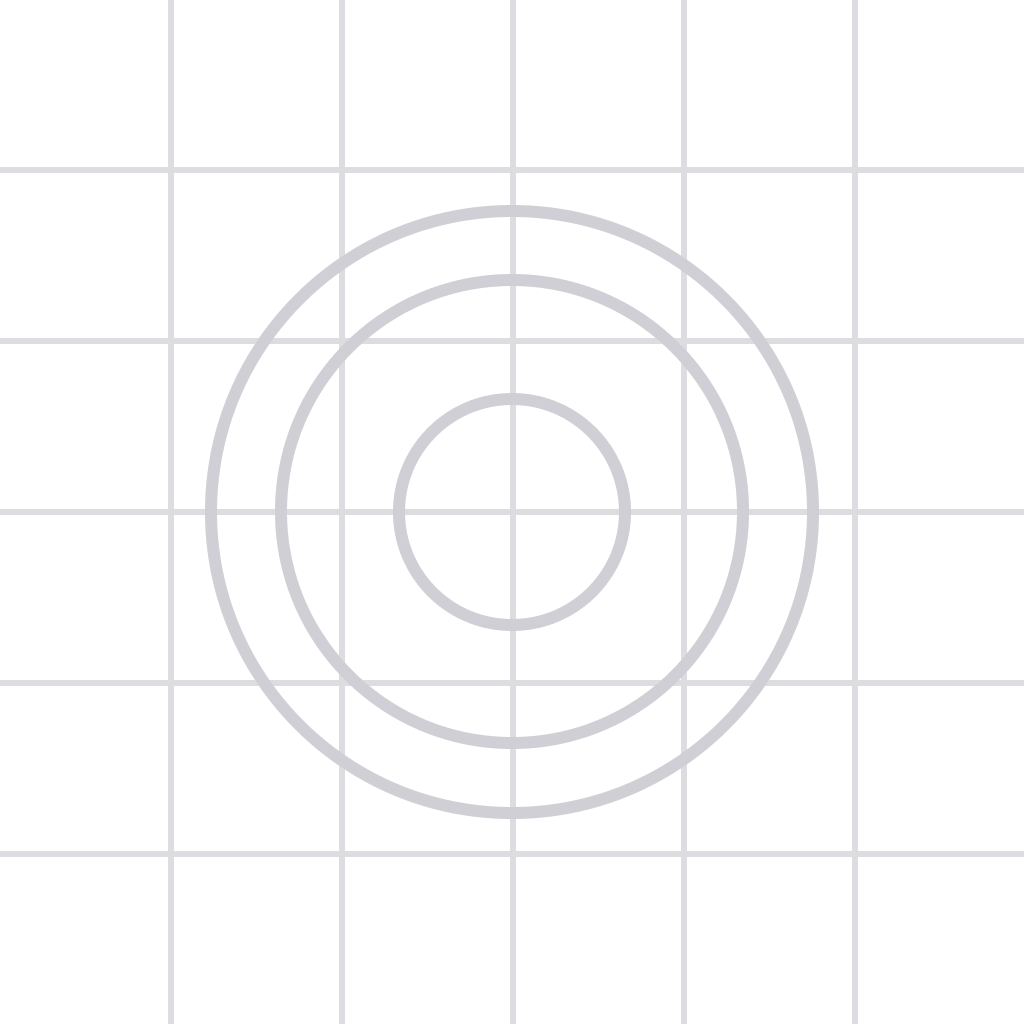
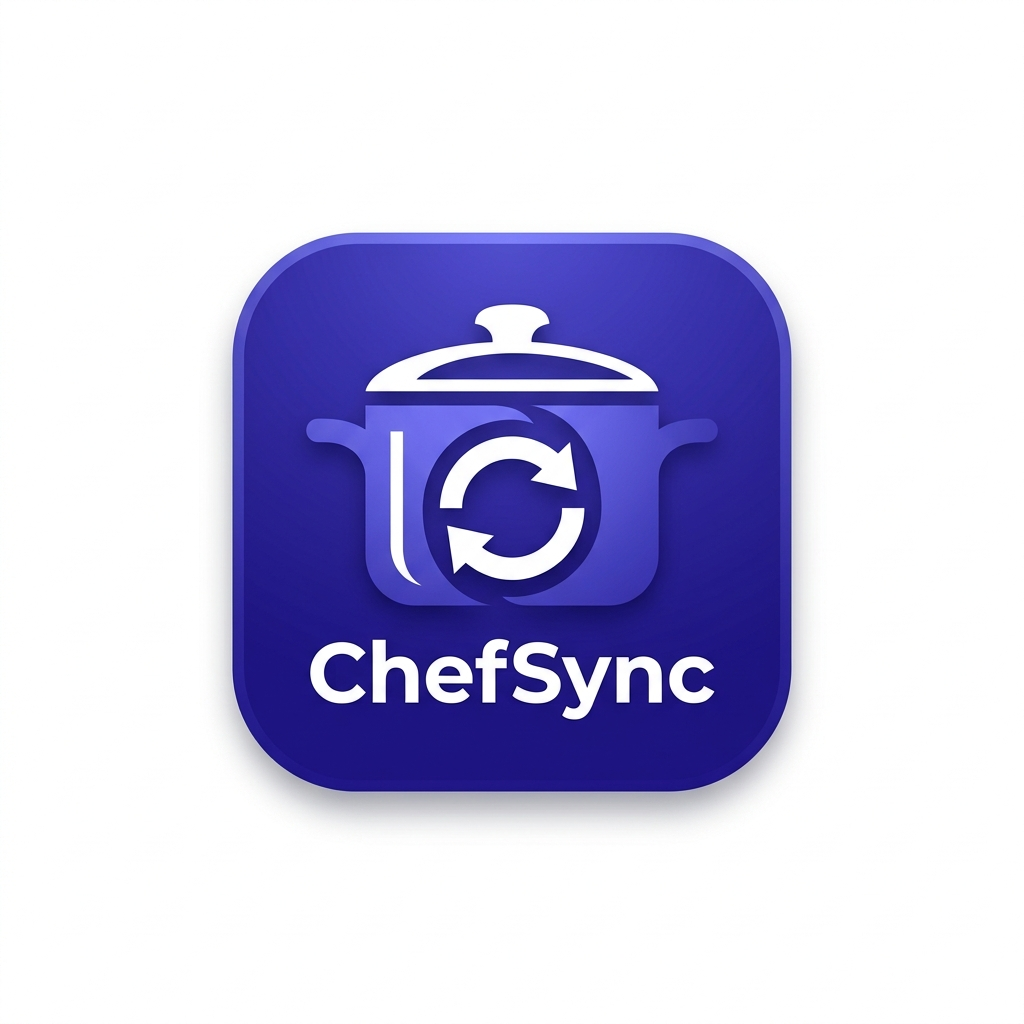
Project completed

diff --git a/frontend/smart-recipe-app/src/context/AuthContext.tsx b/frontend/smart-recipe-app/src/context/AuthContext.tsx
@@ -58,7 +58,7 @@ export const AuthProvider: React.FC<{ children: React.ReactNode }> = ({ children
         const storedToken = await AsyncStorage.getItem('userToken');
         
         if (storedToken) {
-          console.log("[BOOT] Token found. Restoring session.");
+          if (__DEV__) console.log("[BOOT] Token found. Restoring session.");
           setUserToken(storedToken);
           // Attempt to load profile, but don't block boot if it's just a network error
           try {
@@ -67,7 +67,7 @@ export const AuthProvider: React.FC<{ children: React.ReactNode }> = ({ children
             console.warn("[BOOT] Profile sync failed, but session kept.");
           }
         } else {
-          console.log("[BOOT] No token found. Routing to Auth.");
+          if (__DEV__) console.log("[BOOT] No token found. Routing to Auth.");
         }
       } catch (error) {
         console.error("[BOOT] Session restoration critical failure:", error);
@@ -98,7 +98,7 @@ export const AuthProvider: React.FC<{ children: React.ReactNode }> = ({ children
       setUserToken(access_token);
       await fetchUserProfile(access_token);
       
-      console.log("[AUTH] ChefSync login successful. Session persisted.");
+      if (__DEV__) console.log("[AUTH] ChefSync login successful. Session persisted.");
     } catch (error: any) {
       const detail = error.response?.data?.detail;
       const message = typeof detail === 'string' ? detail : 'Invalid email or password.';
@@ -115,12 +115,12 @@ export const AuthProvider: React.FC<{ children: React.ReactNode }> = ({ children
         full_name: fullName,
       });
 
-      console.log("[AUTH] Registration successful. Triggering auto-login.");
+      if (__DEV__) console.log("[AUTH] Registration successful. Triggering auto-login.");
       await login(email, password);
     } catch (error: any) {
       const detail = error.response?.data?.detail;
       const message = typeof detail === 'string' ? detail : 'Could not create account.';
-      console.error('[AUTH] Registration error:', message);
+      if (__DEV__) console.error('[AUTH] Registration error:', message);
       throw new Error(message);
     }
   };
@@ -130,7 +130,7 @@ export const AuthProvider: React.FC<{ children: React.ReactNode }> = ({ children
       await AsyncStorage.removeItem('userToken');
       setUserToken(null);
       setUser(null);
-      console.log("[AUTH] Session cleared.");
+      if (__DEV__) console.log("[AUTH] Session cleared.");
     } catch (error) {
       console.error('[AUTH] Logout failed:', error);
     }

diff --git a/frontend/smart-recipe-app/src/api/client.ts b/frontend/smart-recipe-app/src/api/client.ts
@@ -10,15 +10,8 @@ import Toast from 'react-native-toast-message';
  * We use the host debugger address to point back to your computer.
  */
 const getBaseUrl = () => {
-  const debuggerHost = Constants.expoConfig?.hostUri;
-  const localhost = debuggerHost?.split(':').shift();
-  
-  if (localhost) {
-    return `http://${localhost}:8000`;
-  }
-  
-  // Fallback for web or production
-  return 'http://localhost:8000';
+  // Use Production Railway URL for all environments to troubleshoot
+  return 'https://smart-recipe-manager-production.up.railway.app';
 };
 
 const client = axios.create({

diff --git a/frontend/smart-recipe-app/src/screens/ScanScreen.tsx b/frontend/smart-recipe-app/src/screens/ScanScreen.tsx
@@ -1,9 +1,9 @@
 // src/screens/ScanScreen.tsx
-import React, { useState, useRef } from 'react';
+import React, { useState, useRef, useCallback } from 'react';
 import { View, Text, TouchableOpacity, StyleSheet, StatusBar, Linking } from 'react-native';
 import { SafeAreaView } from 'react-native-safe-area-context';
 import { CameraView, useCameraPermissions } from 'expo-camera';
-import { useIsFocused, useNavigation } from '@react-navigation/native';
+import { useIsFocused, useNavigation, useFocusEffect } from '@react-navigation/native';
 import * as ImageManipulator from 'expo-image-manipulator';
 import Toast from 'react-native-toast-message';
 import { CameraOff, ArrowLeft } from 'lucide-react-native';

diff --git a/backend/main.py b/backend/main.py
@@ -38,11 +38,10 @@ async def value_error_exception_handler(request: Request, exc: ValueError):
         content={"detail": str(exc)},
     )
 
-# Configure CORS for production
-allowed_origins = os.getenv("ALLOWED_ORIGINS", "*").split(",")
+# Configure CORS for production troubleshooting
 app.add_middleware(
     CORSMiddleware,
-    allow_origins=allowed_origins,
+    allow_origins=["*"],
     allow_credentials=True,
     allow_methods=["*"],
     allow_headers=["*"],